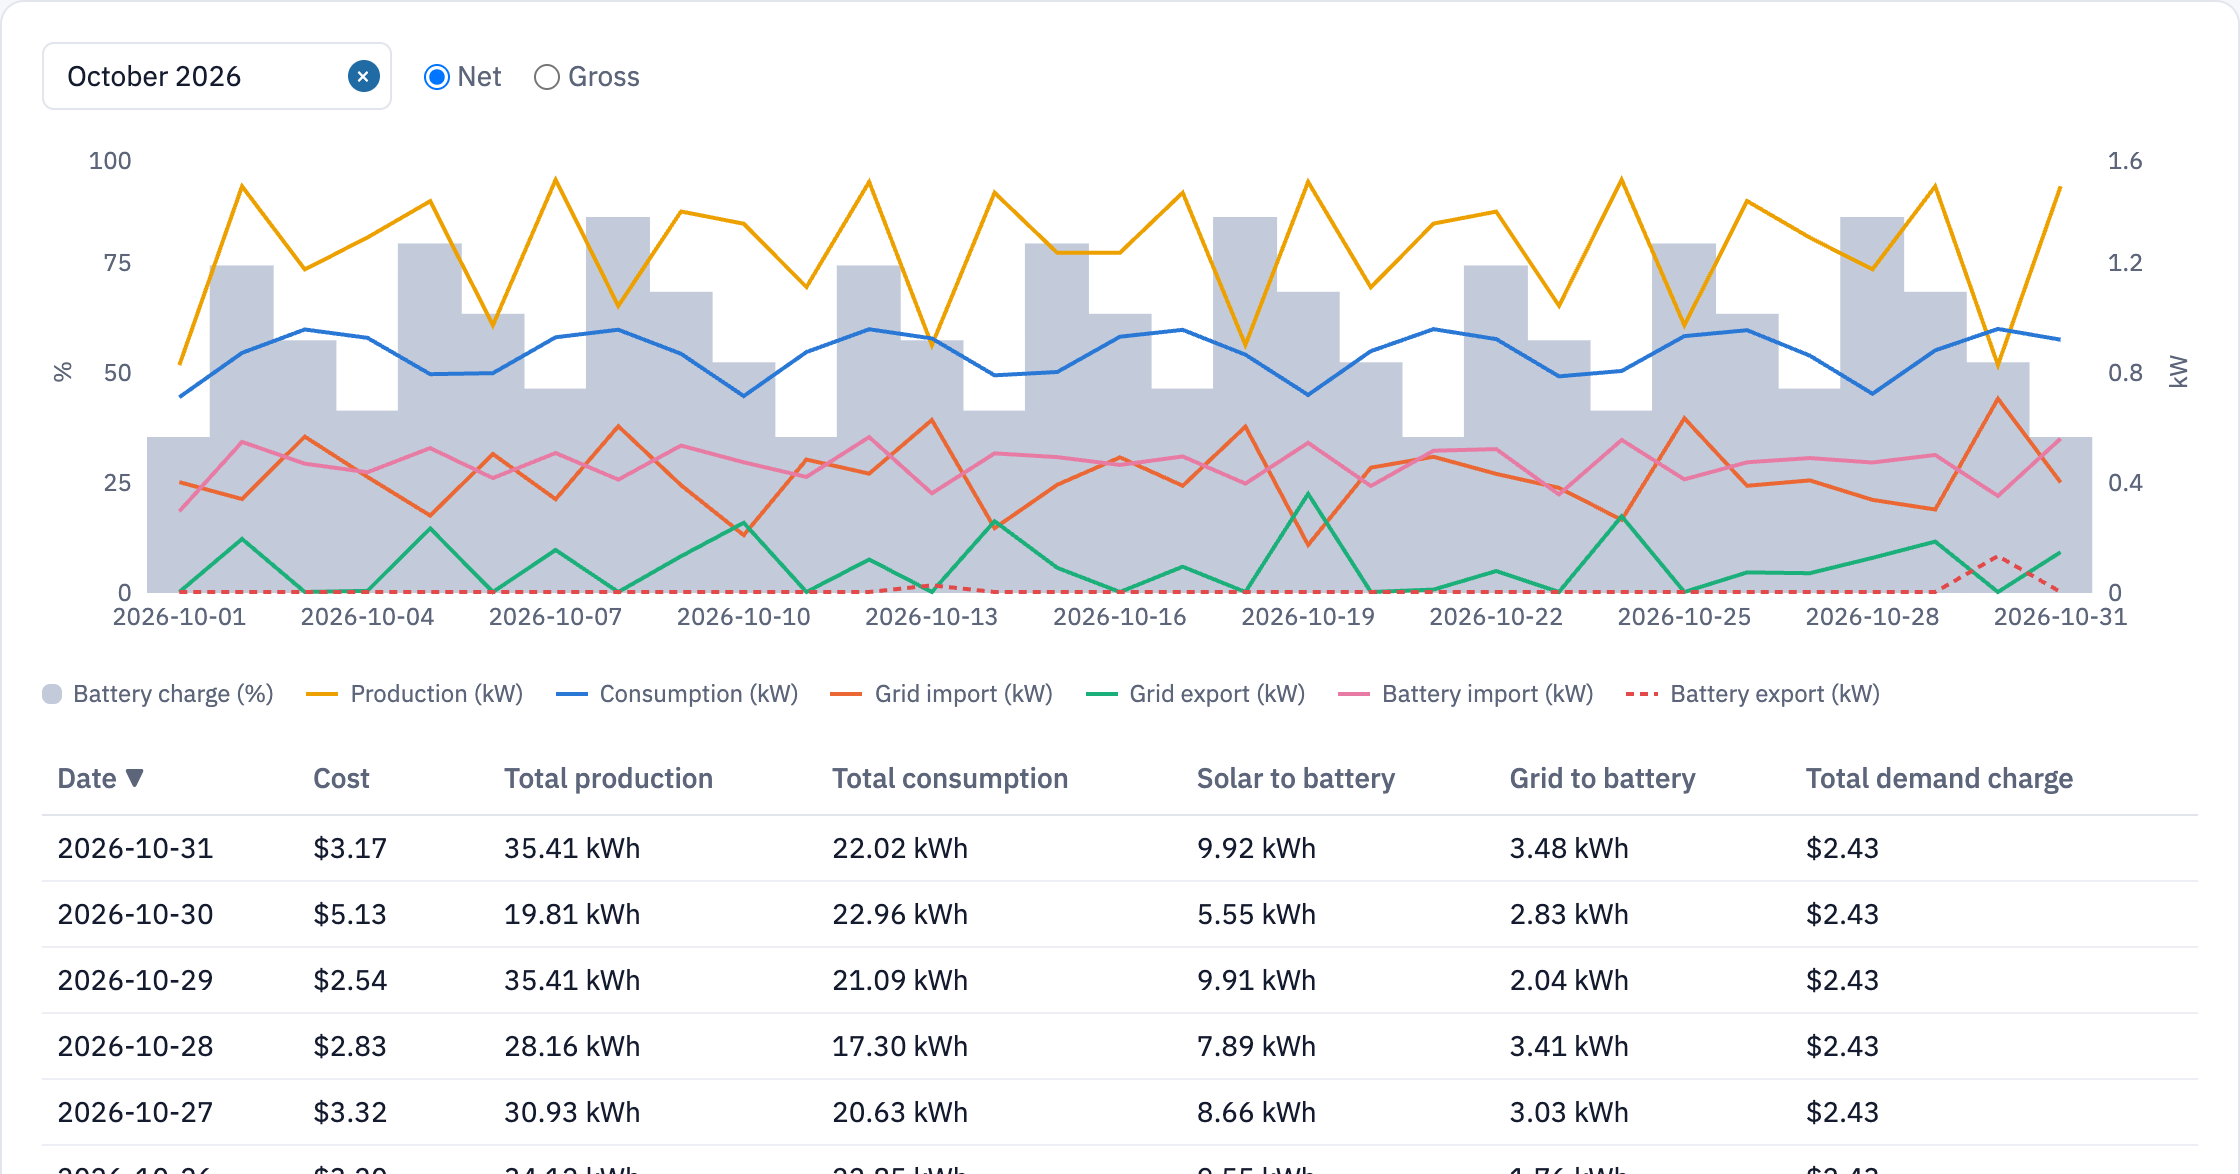
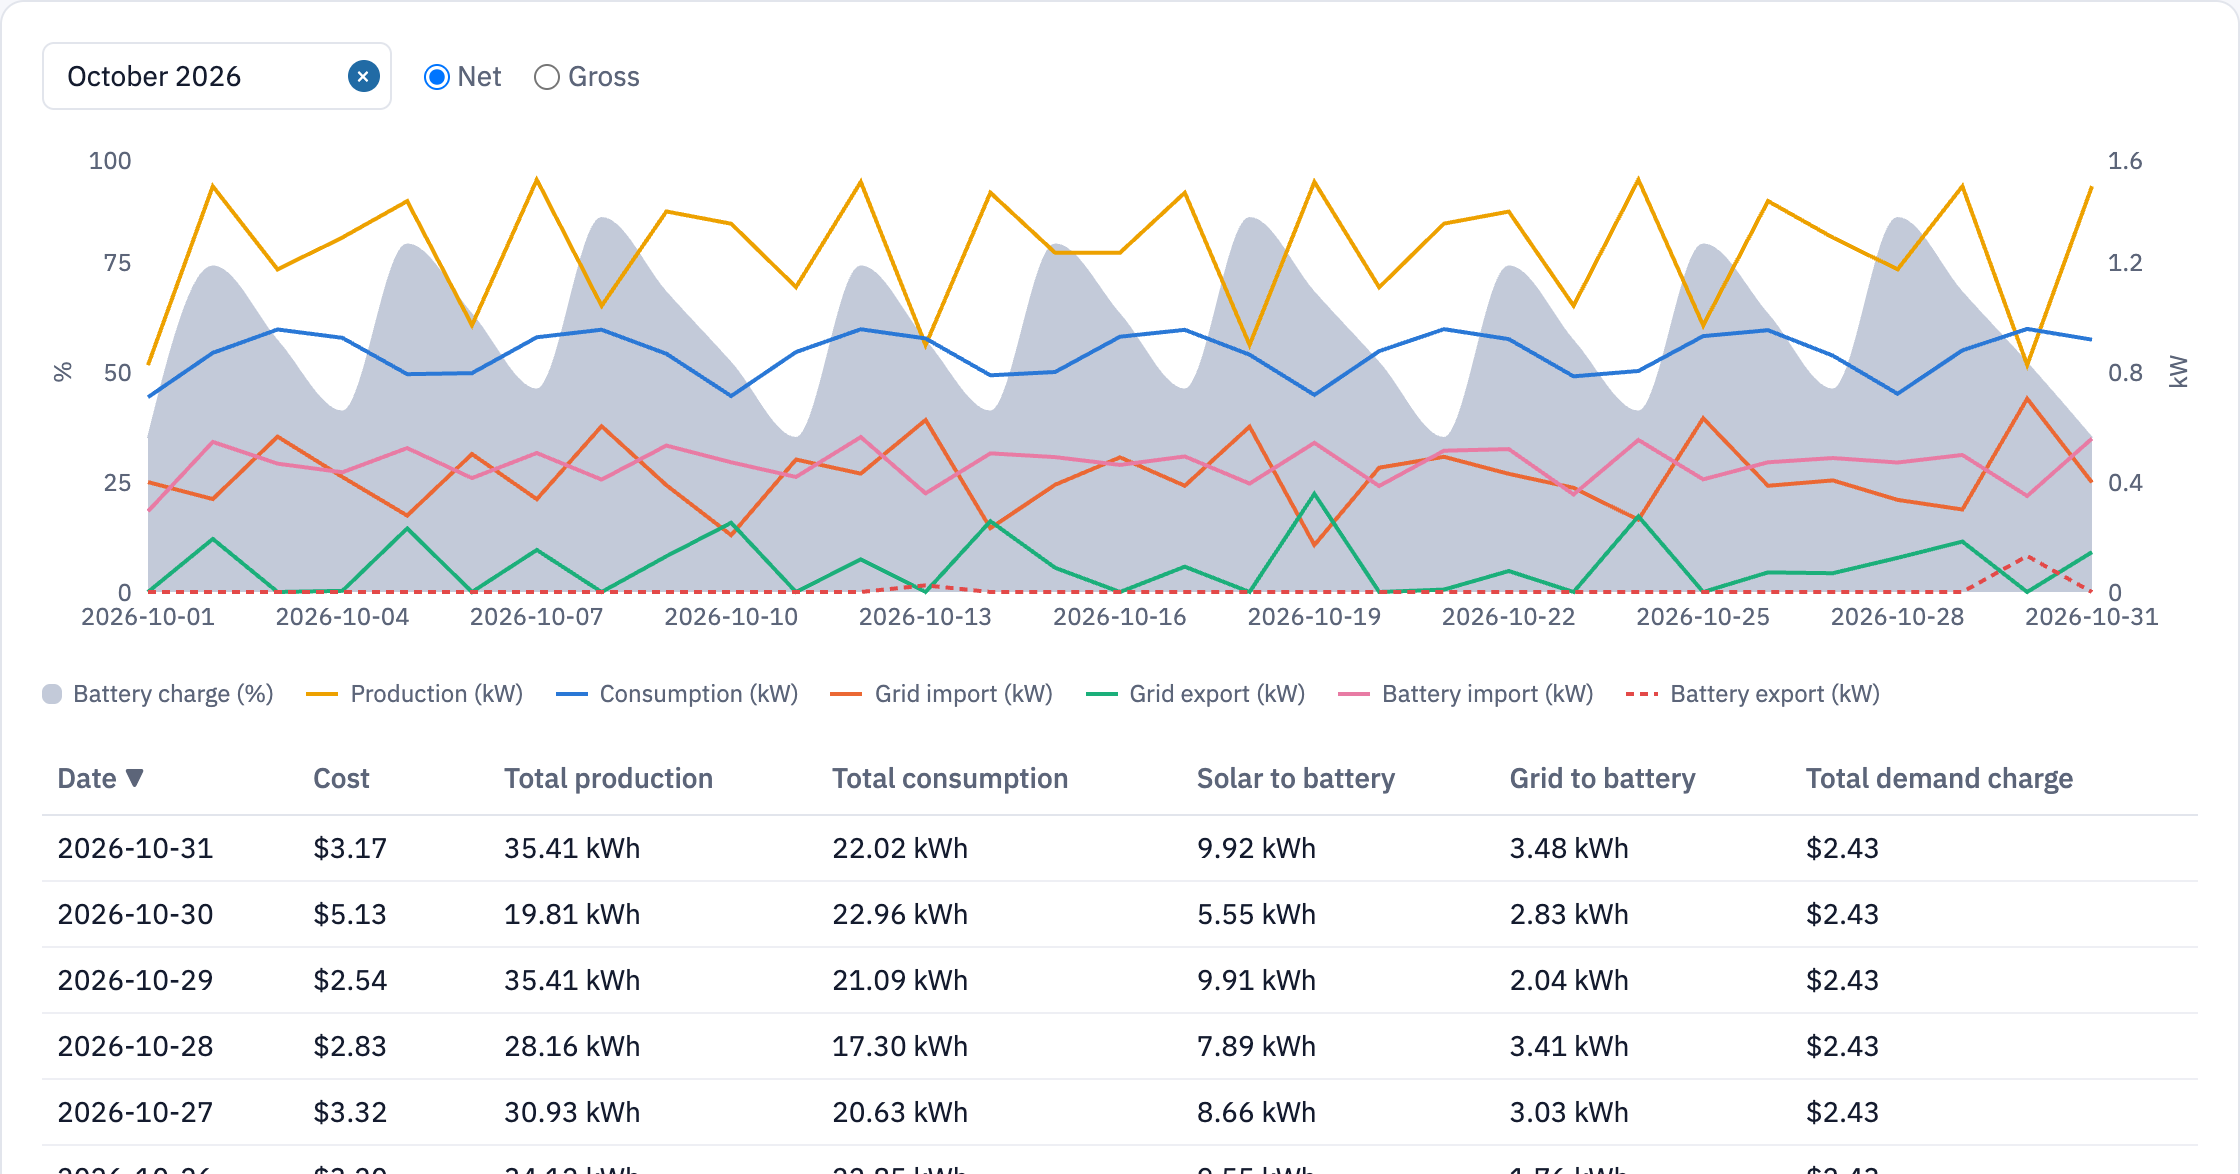
feat(webapp): draw battery charge as a smooth filled area
Replace the stepped bars on the Reporting and dashboard battery charts
with a monotone area at full opacity. Update the guide text and the
Reporting screenshots.

Changed region(s): [[0.4688, 0.1533, 0.9688, 0.552], [0.0312, 0.1533, 0.4688, 0.552], [0.4375, 0.4293, 0.4688, 0.46]]

diff --git a/webapp/src/pages/TotalsChart.tsx b/webapp/src/pages/TotalsChart.tsx
@@ -1,4 +1,4 @@
-import { Bar, ComposedChart, Line, type MouseHandlerDataParam, ResponsiveContainer, Tooltip, XAxis, YAxis } from "recharts";
+import { Area, ComposedChart, Line, type MouseHandlerDataParam, ResponsiveContainer, Tooltip, XAxis, YAxis } from "recharts";
 import { LegendSwatch } from "../dashboard/chartParts";
 import { axisProps, SWATCH_COLORS, useChartColors, yAxisProps } from "../dashboard/chartStyle";
 import type { TotalsBucket, TotalsRow } from "../dashboard/useHistoricalData";
@@ -90,7 +90,7 @@ function ChartLegend() {
 }
 
 /**
- * Average power (lines, kW) and battery charge level (bars, 0 to 100%) for
+ * Average power (lines, kW) and battery charge level (area, 0 to 100%) for
  * each day, hour or minute in the table below it. Clicking a day or an hour
  * calls `onSelectRow` with that row, as clicking its table row does; minutes
  * are the lowest level, so clicking one does nothing.
@@ -118,7 +118,6 @@ export function TotalsChart({
       <ResponsiveContainer width="100%" height={260}>
         <ComposedChart
           data={data}
-          barCategoryGap={0}
           style={drillable ? { cursor: "pointer" } : undefined}
           onClick={drillable ? handleClick : undefined}
         >
@@ -126,7 +125,16 @@ export function TotalsChart({
           <YAxis yAxisId="pct" domain={[0, 100]} {...yAxisProps(colors, "%")} />
           <YAxis yAxisId="kw" {...yAxisProps(colors, "kW", "right")} />
           <Tooltip content={(props) => <ChartTooltip {...props} />} />
-          <Bar yAxisId="pct" dataKey="socPct" name="Battery charge" fill={colors.batterySoc} stroke={colors.batterySoc} isAnimationActive={false} />
+          <Area
+            yAxisId="pct"
+            type="monotone"
+            dataKey="socPct"
+            name="Battery charge"
+            fill={colors.batterySoc}
+            stroke={colors.batterySoc}
+            fillOpacity={1}
+            isAnimationActive={false}
+          />
           {LINES.map((line) => (
             <Line
               key={line.key}

diff --git a/webapp/src/dashboard/BatteryChart.tsx b/webapp/src/dashboard/BatteryChart.tsx
@@ -1,5 +1,5 @@
 import { useMemo } from "react";
-import { Bar, ComposedChart, Line, ReferenceLine, ResponsiveContainer, Tooltip, XAxis, YAxis } from "recharts";
+import { Area, ComposedChart, Line, ReferenceLine, ResponsiveContainer, Tooltip, XAxis, YAxis } from "recharts";
 import type { BatteryChartPoint } from "./batteryFlows";
 import { LegendSwatch, ZoomSelectionArea } from "./chartParts";
 import { axisProps, SWATCH_COLORS, useChartColors, yAxisProps, ZOOMABLE_CHART_STYLE } from "./chartStyle";
@@ -62,7 +62,7 @@ function BatteryTooltip({
 }
 
 /**
- * Battery charge level (bars, 0 to 100%) over the day against the power flowing
+ * Battery charge level (smoothed area, 0 to 100%) over the day against the power flowing
  * into the battery from solar and the grid and out of it to the house and
  * the grid (lines, kW). Drag to zoom; the zoom and hover are shared with the
  * page's other today charts through `onZoom` and `syncId`.
@@ -84,7 +84,7 @@ export function BatteryChart({
   return (
     <>
       <ResponsiveContainer width="100%" height={240}>
-        <ComposedChart data={data} barCategoryGap={0} style={ZOOMABLE_CHART_STYLE} syncId={syncId} syncMethod="value" {...handlers}>
+        <ComposedChart data={data} style={ZOOMABLE_CHART_STYLE} syncId={syncId} syncMethod="value" {...handlers}>
           <XAxis
             dataKey="ts"
             ticks={axisTickPlan.ticks}
@@ -95,12 +95,14 @@ export function BatteryChart({
           <YAxis yAxisId="kw" {...yAxisProps(colors, "kW", "right")} />
           <Tooltip content={(props) => <BatteryTooltip {...props} />} />
           <ReferenceLine yAxisId="kw" y={0} stroke={colors.line} />
-          <Bar
+          <Area
             yAxisId="pct"
+            type="monotone"
             dataKey="socPct"
             name="Battery charge"
             fill={colors.batterySoc}
             stroke={colors.batterySoc}
+            fillOpacity={1}
             isAnimationActive={false}
           />
           {SERIES.map((s) => (

diff --git a/webapp/src/docs/06-dashboard.md b/webapp/src/docs/06-dashboard.md
@@ -110,11 +110,11 @@ This chart and Today's Pricing above it share one zoom. Drag across either to zo
 
 ## Battery chart
 
-![Battery charge level as bars, with solar, grid and house power lines](images/dashboard-battery.png)
+![Battery charge level as a filled area, with solar, grid and house power lines](images/dashboard-battery.png)
 
 Below the grid and cost chart, the Battery chart shows today in 5-minute steps. It shares the zoom and hover position with the two charts above it. It appears only once your site has reported a battery reading today.
 
-- **Amber bars** are the battery's charge level at the end of each 5 minutes, from 0 to 100% (left axis).
+- **The filled area** is the battery's charge level at the end of each 5 minutes, from 0 to 100% (left axis). Its top edge is drawn as a smooth curve between readings.
 - **Solid lines** are power going into the battery, in kW (right axis): solar in green and grid in salmon.
 - **Dashed lines** are power coming out of the battery: to the house in blue and to the grid in green. The to-the-grid line is drawn below zero, the way grid export is on the chart above.
 
@@ -179,7 +179,7 @@ The hour and minute tables have these columns: **Hour** or **Time**, **Cost**, *
 Above the table on all three levels, a chart covers the same span as the table, in days, hours or minutes. Hover over it to see the values.
 
 - **Lines** show average power in kW over each row: Production, Consumption, Grid import, Grid export, Battery import (charge power) and Battery export (discharge power, dashed).
-- **Bars** show the battery charge as a percentage on a 0 to 100% left axis. Each bar is the last reading in its row. The bars touch each other, so the chart reads like a battery meter.
+- **The filled area** shows the battery charge as a percentage on a 0 to 100% left axis. It has one point per row, the last reading in that row, joined by a smooth curve.
 
 ### While a report loads
 
